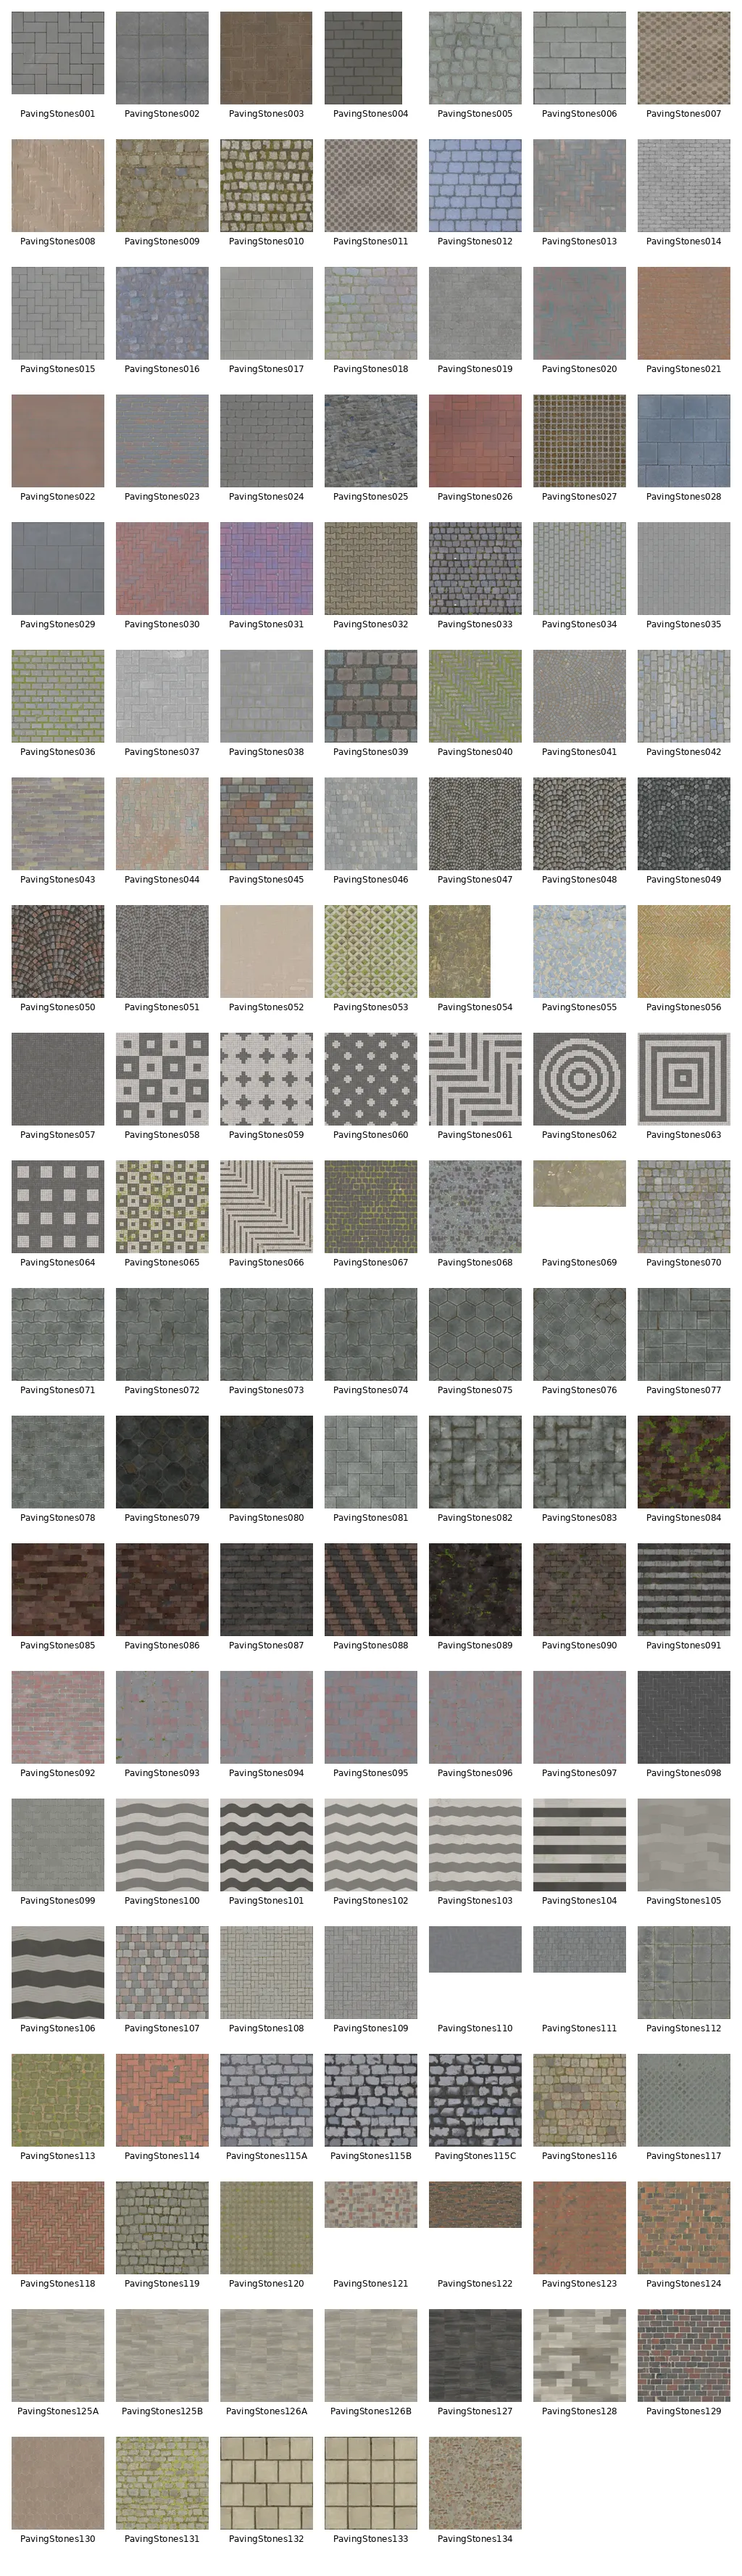
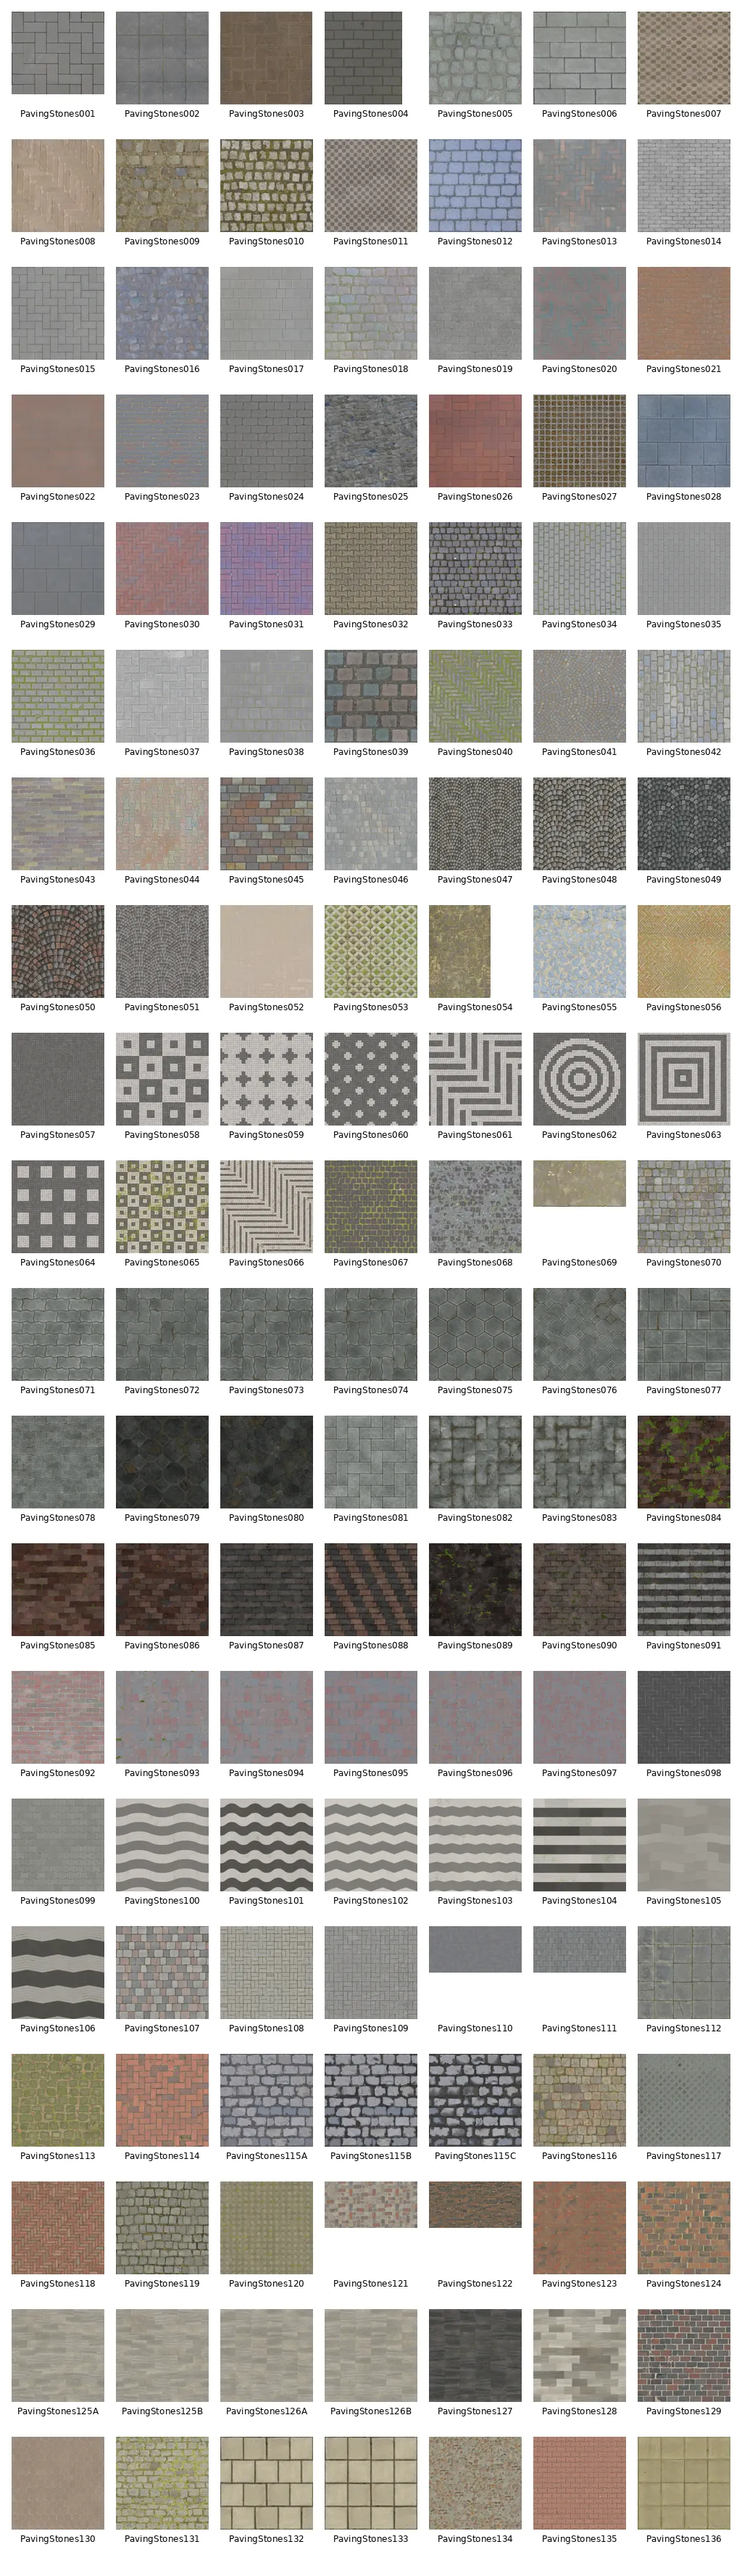
version: v2023.09.20

Changed region(s): [[0.7188, 0.9375, 1.0, 1.0]]

diff --git a/README.md b/README.md
@@ -5,19 +5,19 @@ The texture are resized to 3 sizes, so you can choose quality.
 
 3 qualities available: 256, 512 and 1024 pixels width.
 
-Current version: 2023.07.19<br>
-Total textures: 1256
+Current version: 2023.09.20<br>
+Total textures: 1290
 
 ## Install
 
 Just download the .sh3t file you want and use the texture library import feature from Sweethome3D from "Furniture" menu.
 
 
-* [ambientcg_1024.sh3t](https://fenouil-drive.mycozy.cloud/public?sharecode=QyiDq6EIACQi) - 189.9 MB
+* [ambientcg_1024.sh3t](https://fenouil-drive.mycozy.cloud/public?sharecode=QyiDq6EIACQi) - 192.5 MB
 
-* [ambientcg_512.sh3t](https://fenouil-drive.mycozy.cloud/public?sharecode=u2Ps0zAB8cij) - 49.4 MB
+* [ambientcg_512.sh3t](https://fenouil-drive.mycozy.cloud/public?sharecode=u2Ps0zAB8cij) - 50.0 MB
 
-* [ambientcg_256.sh3t](https://fenouil-drive.mycozy.cloud/public?sharecode=3gsbVKG3PFBM) - 13.1 MB
+* [ambientcg_256.sh3t](https://fenouil-drive.mycozy.cloud/public?sharecode=3gsbVKG3PFBM) - 13.3 MB
 
 
 ## Missing dimensions
@@ -56,225 +56,225 @@ The current code and content follow the same licence.
 
 ### Asphalt
 <picture>
-  <img alt="Preview of Asphalt" src="https://raw.githubusercontent.com/fabien-michel/sweethome3d-textures-ambientcg/v2023.07.19/previews/Asphalt.webp">
+  <img alt="Preview of Asphalt" src="https://raw.githubusercontent.com/fabien-michel/sweethome3d-textures-ambientcg/v2023.09.20/previews/Asphalt.webp">
 </picture>
 
 ### Bamboo
 <picture>
-  <img alt="Preview of Bamboo" src="https://raw.githubusercontent.com/fabien-michel/sweethome3d-textures-ambientcg/v2023.07.19/previews/Bamboo.webp">
+  <img alt="Preview of Bamboo" src="https://raw.githubusercontent.com/fabien-michel/sweethome3d-textures-ambientcg/v2023.09.20/previews/Bamboo.webp">
 </picture>
 
 ### Bark
 <picture>
-  <img alt="Preview of Bark" src="https://raw.githubusercontent.com/fabien-michel/sweethome3d-textures-ambientcg/v2023.07.19/previews/Bark.webp">
+  <img alt="Preview of Bark" src="https://raw.githubusercontent.com/fabien-michel/sweethome3d-textures-ambientcg/v2023.09.20/previews/Bark.webp">
 </picture>
 
 ### Bricks
 <picture>
-  <img alt="Preview of Bricks" src="https://raw.githubusercontent.com/fabien-michel/sweethome3d-textures-ambientcg/v2023.07.19/previews/Bricks.webp">
+  <img alt="Preview of Bricks" src="https://raw.githubusercontent.com/fabien-michel/sweethome3d-textures-ambientcg/v2023.09.20/previews/Bricks.webp">
 </picture>
 
 ### Cardboard
 <picture>
-  <img alt="Preview of Cardboard" src="https://raw.githubusercontent.com/fabien-michel/sweethome3d-textures-ambientcg/v2023.07.19/previews/Cardboard.webp">
+  <img alt="Preview of Cardboard" src="https://raw.githubusercontent.com/fabien-michel/sweethome3d-textures-ambientcg/v2023.09.20/previews/Cardboard.webp">
 </picture>
 
 ### Carpet
 <picture>
-  <img alt="Preview of Carpet" src="https://raw.githubusercontent.com/fabien-michel/sweethome3d-textures-ambientcg/v2023.07.19/previews/Carpet.webp">
+  <img alt="Preview of Carpet" src="https://raw.githubusercontent.com/fabien-michel/sweethome3d-textures-ambientcg/v2023.09.20/previews/Carpet.webp">
 </picture>
 
 ### Chainmail
 <picture>
-  <img alt="Preview of Chainmail" src="https://raw.githubusercontent.com/fabien-michel/sweethome3d-textures-ambientcg/v2023.07.19/previews/Chainmail.webp">
+  <img alt="Preview of Chainmail" src="https://raw.githubusercontent.com/fabien-michel/sweethome3d-textures-ambientcg/v2023.09.20/previews/Chainmail.webp">
 </picture>
 
 ### Chipboard
 <picture>
-  <img alt="Preview of Chipboard" src="https://raw.githubusercontent.com/fabien-michel/sweethome3d-textures-ambientcg/v2023.07.19/previews/Chipboard.webp">
+  <img alt="Preview of Chipboard" src="https://raw.githubusercontent.com/fabien-michel/sweethome3d-textures-ambientcg/v2023.09.20/previews/Chipboard.webp">
 </picture>
 
 ### Clay
 <picture>
-  <img alt="Preview of Clay" src="https://raw.githubusercontent.com/fabien-michel/sweethome3d-textures-ambientcg/v2023.07.19/previews/Clay.webp">
+  <img alt="Preview of Clay" src="https://raw.githubusercontent.com/fabien-michel/sweethome3d-textures-ambientcg/v2023.09.20/previews/Clay.webp">
 </picture>
 
 ### Concrete
 <picture>
-  <img alt="Preview of Concrete" src="https://raw.githubusercontent.com/fabien-michel/sweethome3d-textures-ambientcg/v2023.07.19/previews/Concrete.webp">
+  <img alt="Preview of Concrete" src="https://raw.githubusercontent.com/fabien-michel/sweethome3d-textures-ambientcg/v2023.09.20/previews/Concrete.webp">
 </picture>
 
 ### Cork
 <picture>
-  <img alt="Preview of Cork" src="https://raw.githubusercontent.com/fabien-michel/sweethome3d-textures-ambientcg/v2023.07.19/previews/Cork.webp">
+  <img alt="Preview of Cork" src="https://raw.githubusercontent.com/fabien-michel/sweethome3d-textures-ambientcg/v2023.09.20/previews/Cork.webp">
 </picture>
 
 ### CorrugatedSteel
 <picture>
-  <img alt="Preview of CorrugatedSteel" src="https://raw.githubusercontent.com/fabien-michel/sweethome3d-textures-ambientcg/v2023.07.19/previews/CorrugatedSteel.webp">
+  <img alt="Preview of CorrugatedSteel" src="https://raw.githubusercontent.com/fabien-michel/sweethome3d-textures-ambientcg/v2023.09.20/previews/CorrugatedSteel.webp">
 </picture>
 
 ### DiamondPlate
 <picture>
-  <img alt="Preview of DiamondPlate" src="https://raw.githubusercontent.com/fabien-michel/sweethome3d-textures-ambientcg/v2023.07.19/previews/DiamondPlate.webp">
+  <img alt="Preview of DiamondPlate" src="https://raw.githubusercontent.com/fabien-michel/sweethome3d-textures-ambientcg/v2023.09.20/previews/DiamondPlate.webp">
 </picture>
 
 ### Fabric
 <picture>
-  <img alt="Preview of Fabric" src="https://raw.githubusercontent.com/fabien-michel/sweethome3d-textures-ambientcg/v2023.07.19/previews/Fabric.webp">
+  <img alt="Preview of Fabric" src="https://raw.githubusercontent.com/fabien-michel/sweethome3d-textures-ambientcg/v2023.09.20/previews/Fabric.webp">
 </picture>
 
 ### GlazedTerracotta
 <picture>
-  <img alt="Preview of GlazedTerracotta" src="https://raw.githubusercontent.com/fabien-michel/sweethome3d-textures-ambientcg/v2023.07.19/previews/GlazedTerracotta.webp">
+  <img alt="Preview of GlazedTerracotta" src="https://raw.githubusercontent.com/fabien-michel/sweethome3d-textures-ambientcg/v2023.09.20/previews/GlazedTerracotta.webp">
 </picture>
 
 ### Granite
 <picture>
-  <img alt="Preview of Granite" src="https://raw.githubusercontent.com/fabien-michel/sweethome3d-textures-ambientcg/v2023.07.19/previews/Granite.webp">
+  <img alt="Preview of Granite" src="https://raw.githubusercontent.com/fabien-michel/sweethome3d-textures-ambientcg/v2023.09.20/previews/Granite.webp">
 </picture>
 
 ### Grass
 <picture>
-  <img alt="Preview of Grass" src="https://raw.githubusercontent.com/fabien-michel/sweethome3d-textures-ambientcg/v2023.07.19/previews/Grass.webp">
+  <img alt="Preview of Grass" src="https://raw.githubusercontent.com/fabien-michel/sweethome3d-textures-ambientcg/v2023.09.20/previews/Grass.webp">
 </picture>
 
 ### Gravel
 <picture>
-  <img alt="Preview of Gravel" src="https://raw.githubusercontent.com/fabien-michel/sweethome3d-textures-ambientcg/v2023.07.19/previews/Gravel.webp">
+  <img alt="Preview of Gravel" src="https://raw.githubusercontent.com/fabien-michel/sweethome3d-textures-ambientcg/v2023.09.20/previews/Gravel.webp">
 </picture>
 
 ### Ground
 <picture>
-  <img alt="Preview of Ground" src="https://raw.githubusercontent.com/fabien-michel/sweethome3d-textures-ambientcg/v2023.07.19/previews/Ground.webp">
+  <img alt="Preview of Ground" src="https://raw.githubusercontent.com/fabien-michel/sweethome3d-textures-ambientcg/v2023.09.20/previews/Ground.webp">
 </picture>
 
 ### Marble
 <picture>
-  <img alt="Preview of Marble" src="https://raw.githubusercontent.com/fabien-michel/sweethome3d-textures-ambientcg/v2023.07.19/previews/Marble.webp">
+  <img alt="Preview of Marble" src="https://raw.githubusercontent.com/fabien-michel/sweethome3d-textures-ambientcg/v2023.09.20/previews/Marble.webp">
 </picture>
 
 ### Metal
 <picture>
-  <img alt="Preview of Metal" src="https://raw.githubusercontent.com/fabien-michel/sweethome3d-textures-ambientcg/v2023.07.19/previews/Metal.webp">
+  <img alt="Preview of Metal" src="https://raw.githubusercontent.com/fabien-michel/sweethome3d-textures-ambientcg/v2023.09.20/previews/Metal.webp">
 </picture>
 
 ### Moss
 <picture>
-  <img alt="Preview of Moss" src="https://raw.githubusercontent.com/fabien-michel/sweethome3d-textures-ambientcg/v2023.07.19/previews/Moss.webp">
+  <img alt="Preview of Moss" src="https://raw.githubusercontent.com/fabien-michel/sweethome3d-textures-ambientcg/v2023.09.20/previews/Moss.webp">
 </picture>
 
 ### OfficeCeiling
 <picture>
-  <img alt="Preview of OfficeCeiling" src="https://raw.githubusercontent.com/fabien-michel/sweethome3d-textures-ambientcg/v2023.07.19/previews/OfficeCeiling.webp">
+  <img alt="Preview of OfficeCeiling" src="https://raw.githubusercontent.com/fabien-michel/sweethome3d-textures-ambientcg/v2023.09.20/previews/OfficeCeiling.webp">
 </picture>
 
 ### Paint
 <picture>
-  <img alt="Preview of Paint" src="https://raw.githubusercontent.com/fabien-michel/sweethome3d-textures-ambientcg/v2023.07.19/previews/Paint.webp">
+  <img alt="Preview of Paint" src="https://raw.githubusercontent.com/fabien-michel/sweethome3d-textures-ambientcg/v2023.09.20/previews/Paint.webp">
 </picture>
 
 ### Paper
 <picture>
-  <img alt="Preview of Paper" src="https://raw.githubusercontent.com/fabien-michel/sweethome3d-textures-ambientcg/v2023.07.19/previews/Paper.webp">
+  <img alt="Preview of Paper" src="https://raw.githubusercontent.com/fabien-michel/sweethome3d-textures-ambientcg/v2023.09.20/previews/Paper.webp">
 </picture>
 
 ### PavingStones
 <picture>
-  <img alt="Preview of PavingStones" src="https://raw.githubusercontent.com/fabien-michel/sweethome3d-textures-ambientcg/v2023.07.19/previews/PavingStones.webp">
+  <img alt="Preview of PavingStones" src="https://raw.githubusercontent.com/fabien-michel/sweethome3d-textures-ambientcg/v2023.09.20/previews/PavingStones.webp">
 </picture>
 
 ### Planks
 <picture>
-  <img alt="Preview of Planks" src="https://raw.githubusercontent.com/fabien-michel/sweethome3d-textures-ambientcg/v2023.07.19/previews/Planks.webp">
+  <img alt="Preview of Planks" src="https://raw.githubusercontent.com/fabien-michel/sweethome3d-textures-ambientcg/v2023.09.20/previews/Planks.webp">
 </picture>
 
 ### Plaster
 <picture>
-  <img alt="Preview of Plaster" src="https://raw.githubusercontent.com/fabien-michel/sweethome3d-textures-ambientcg/v2023.07.19/previews/Plaster.webp">
+  <img alt="Preview of Plaster" src="https://raw.githubusercontent.com/fabien-michel/sweethome3d-textures-ambientcg/v2023.09.20/previews/Plaster.webp">
 </picture>
 
 ### Plastic
 <picture>
-  <img alt="Preview of Plastic" src="https://raw.githubusercontent.com/fabien-michel/sweethome3d-textures-ambientcg/v2023.07.19/previews/Plastic.webp">
+  <img alt="Preview of Plastic" src="https://raw.githubusercontent.com/fabien-michel/sweethome3d-textures-ambientcg/v2023.09.20/previews/Plastic.webp">
 </picture>
 
 ### Porcelain
 <picture>
-  <img alt="Preview of Porcelain" src="https://raw.githubusercontent.com/fabien-michel/sweethome3d-textures-ambientcg/v2023.07.19/previews/Porcelain.webp">
+  <img alt="Preview of Porcelain" src="https://raw.githubusercontent.com/fabien-michel/sweethome3d-textures-ambientcg/v2023.09.20/previews/Porcelain.webp">
 </picture>
 
 ### Road
 <picture>
-  <img alt="Preview of Road" src="https://raw.githubusercontent.com/fabien-michel/sweethome3d-textures-ambientcg/v2023.07.19/previews/Road.webp">
+  <img alt="Preview of Road" src="https://raw.githubusercontent.com/fabien-michel/sweethome3d-textures-ambientcg/v2023.09.20/previews/Road.webp">
 </picture>
 
 ### Rock
 <picture>
-  <img alt="Preview of Rock" src="https://raw.githubusercontent.com/fabien-michel/sweethome3d-textures-ambientcg/v2023.07.19/previews/Rock.webp">
+  <img alt="Preview of Rock" src="https://raw.githubusercontent.com/fabien-michel/sweethome3d-textures-ambientcg/v2023.09.20/previews/Rock.webp">
 </picture>
 
 ### Rocks
 <picture>
-  <img alt="Preview of Rocks" src="https://raw.githubusercontent.com/fabien-michel/sweethome3d-textures-ambientcg/v2023.07.19/previews/Rocks.webp">
+  <img alt="Preview of Rocks" src="https://raw.githubusercontent.com/fabien-michel/sweethome3d-textures-ambientcg/v2023.09.20/previews/Rocks.webp">
 </picture>
 
 ### RoofingTiles
 <picture>
-  <img alt="Preview of RoofingTiles" src="https://raw.githubusercontent.com/fabien-michel/sweethome3d-textures-ambientcg/v2023.07.19/previews/RoofingTiles.webp">
+  <img alt="Preview of RoofingTiles" src="https://raw.githubusercontent.com/fabien-michel/sweethome3d-textures-ambientcg/v2023.09.20/previews/RoofingTiles.webp">
 </picture>
 
 ### Rust
 <picture>
-  <img alt="Preview of Rust" src="https://raw.githubusercontent.com/fabien-michel/sweethome3d-textures-ambientcg/v2023.07.19/previews/Rust.webp">
+  <img alt="Preview of Rust" src="https://raw.githubusercontent.com/fabien-michel/sweethome3d-textures-ambientcg/v2023.09.20/previews/Rust.webp">
 </picture>
 
 ### Snow
 <picture>
-  <img alt="Preview of Snow" src="https://raw.githubusercontent.com/fabien-michel/sweethome3d-textures-ambientcg/v2023.07.19/previews/Snow.webp">
+  <img alt="Preview of Snow" src="https://raw.githubusercontent.com/fabien-michel/sweethome3d-textures-ambientcg/v2023.09.20/previews/Snow.webp">
 </picture>
 
 ### SolarPanel
 <picture>
-  <img alt="Preview of SolarPanel" src="https://raw.githubusercontent.com/fabien-michel/sweethome3d-textures-ambientcg/v2023.07.19/previews/SolarPanel.webp">
+  <img alt="Preview of SolarPanel" src="https://raw.githubusercontent.com/fabien-michel/sweethome3d-textures-ambientcg/v2023.09.20/previews/SolarPanel.webp">
 </picture>
 
 ### Terrazzo
 <picture>
-  <img alt="Preview of Terrazzo" src="https://raw.githubusercontent.com/fabien-michel/sweethome3d-textures-ambientcg/v2023.07.19/previews/Terrazzo.webp">
+  <img alt="Preview of Terrazzo" src="https://raw.githubusercontent.com/fabien-michel/sweethome3d-textures-ambientcg/v2023.09.20/previews/Terrazzo.webp">
 </picture>
 
 ### ThatchedRoof
 <picture>
-  <img alt="Preview of ThatchedRoof" src="https://raw.githubusercontent.com/fabien-michel/sweethome3d-textures-ambientcg/v2023.07.19/previews/ThatchedRoof.webp">
+  <img alt="Preview of ThatchedRoof" src="https://raw.githubusercontent.com/fabien-michel/sweethome3d-textures-ambientcg/v2023.09.20/previews/ThatchedRoof.webp">
 </picture>
 
 ### Tiles
 <picture>
-  <img alt="Preview of Tiles" src="https://raw.githubusercontent.com/fabien-michel/sweethome3d-textures-ambientcg/v2023.07.19/previews/Tiles.webp">
+  <img alt="Preview of Tiles" src="https://raw.githubusercontent.com/fabien-michel/sweethome3d-textures-ambientcg/v2023.09.20/previews/Tiles.webp">
 </picture>
 
 ### Wallpaper
 <picture>
-  <img alt="Preview of Wallpaper" src="https://raw.githubusercontent.com/fabien-michel/sweethome3d-textures-ambientcg/v2023.07.19/previews/Wallpaper.webp">
+  <img alt="Preview of Wallpaper" src="https://raw.githubusercontent.com/fabien-michel/sweethome3d-textures-ambientcg/v2023.09.20/previews/Wallpaper.webp">
 </picture>
 
 ### Wood
 <picture>
-  <img alt="Preview of Wood" src="https://raw.githubusercontent.com/fabien-michel/sweethome3d-textures-ambientcg/v2023.07.19/previews/Wood.webp">
+  <img alt="Preview of Wood" src="https://raw.githubusercontent.com/fabien-michel/sweethome3d-textures-ambientcg/v2023.09.20/previews/Wood.webp">
 </picture>
 
 ### WoodChips
 <picture>
-  <img alt="Preview of WoodChips" src="https://raw.githubusercontent.com/fabien-michel/sweethome3d-textures-ambientcg/v2023.07.19/previews/WoodChips.webp">
+  <img alt="Preview of WoodChips" src="https://raw.githubusercontent.com/fabien-michel/sweethome3d-textures-ambientcg/v2023.09.20/previews/WoodChips.webp">
 </picture>
 
 ### WoodFloor
 <picture>
-  <img alt="Preview of WoodFloor" src="https://raw.githubusercontent.com/fabien-michel/sweethome3d-textures-ambientcg/v2023.07.19/previews/WoodFloor.webp">
+  <img alt="Preview of WoodFloor" src="https://raw.githubusercontent.com/fabien-michel/sweethome3d-textures-ambientcg/v2023.09.20/previews/WoodFloor.webp">
 </picture>
 
 ### WoodSiding
 <picture>
-  <img alt="Preview of WoodSiding" src="https://raw.githubusercontent.com/fabien-michel/sweethome3d-textures-ambientcg/v2023.07.19/previews/WoodSiding.webp">
+  <img alt="Preview of WoodSiding" src="https://raw.githubusercontent.com/fabien-michel/sweethome3d-textures-ambientcg/v2023.09.20/previews/WoodSiding.webp">
 </picture>
